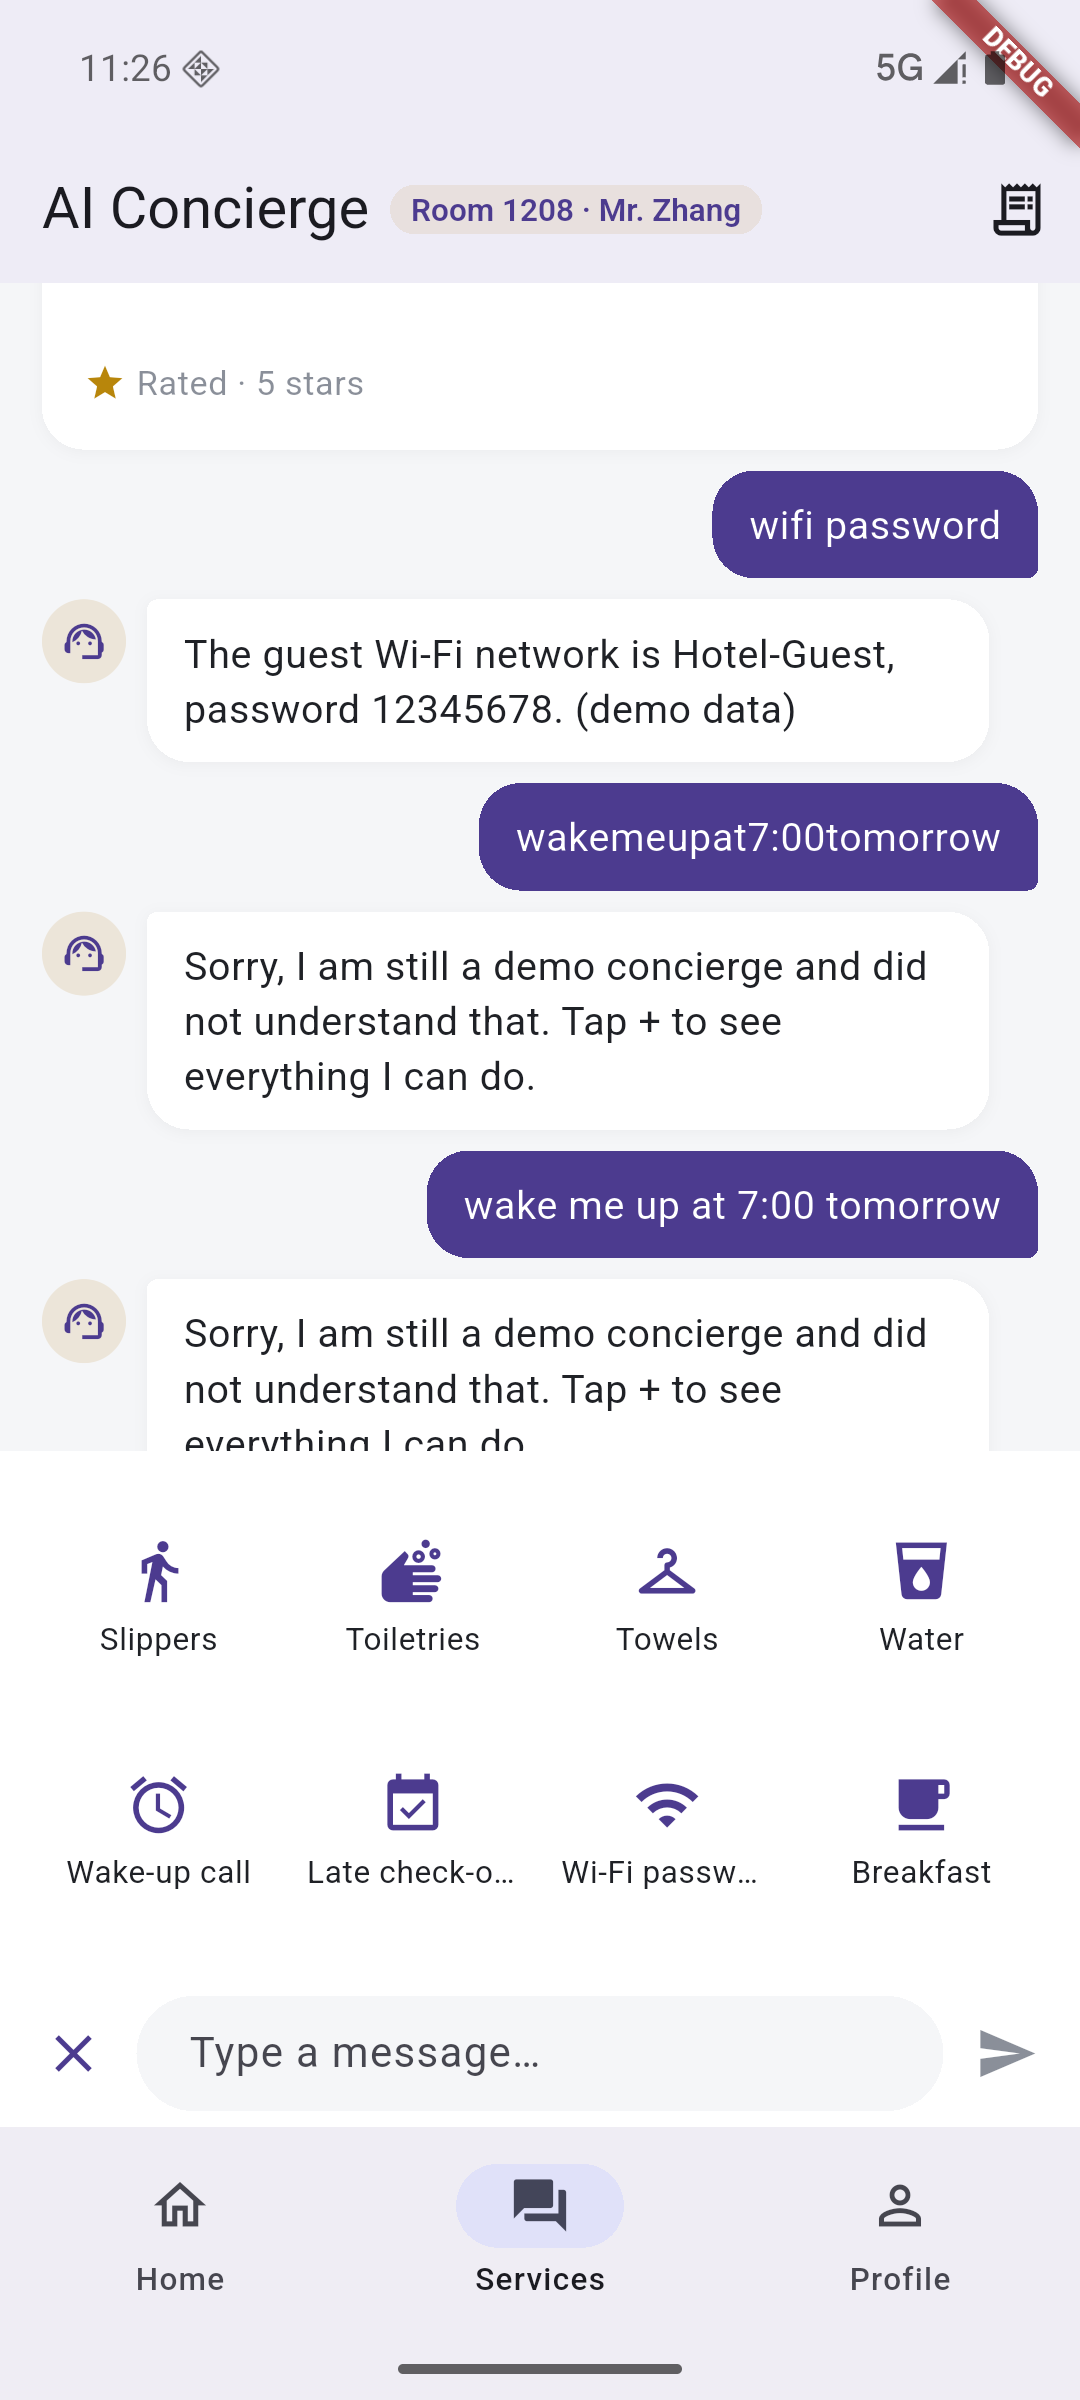
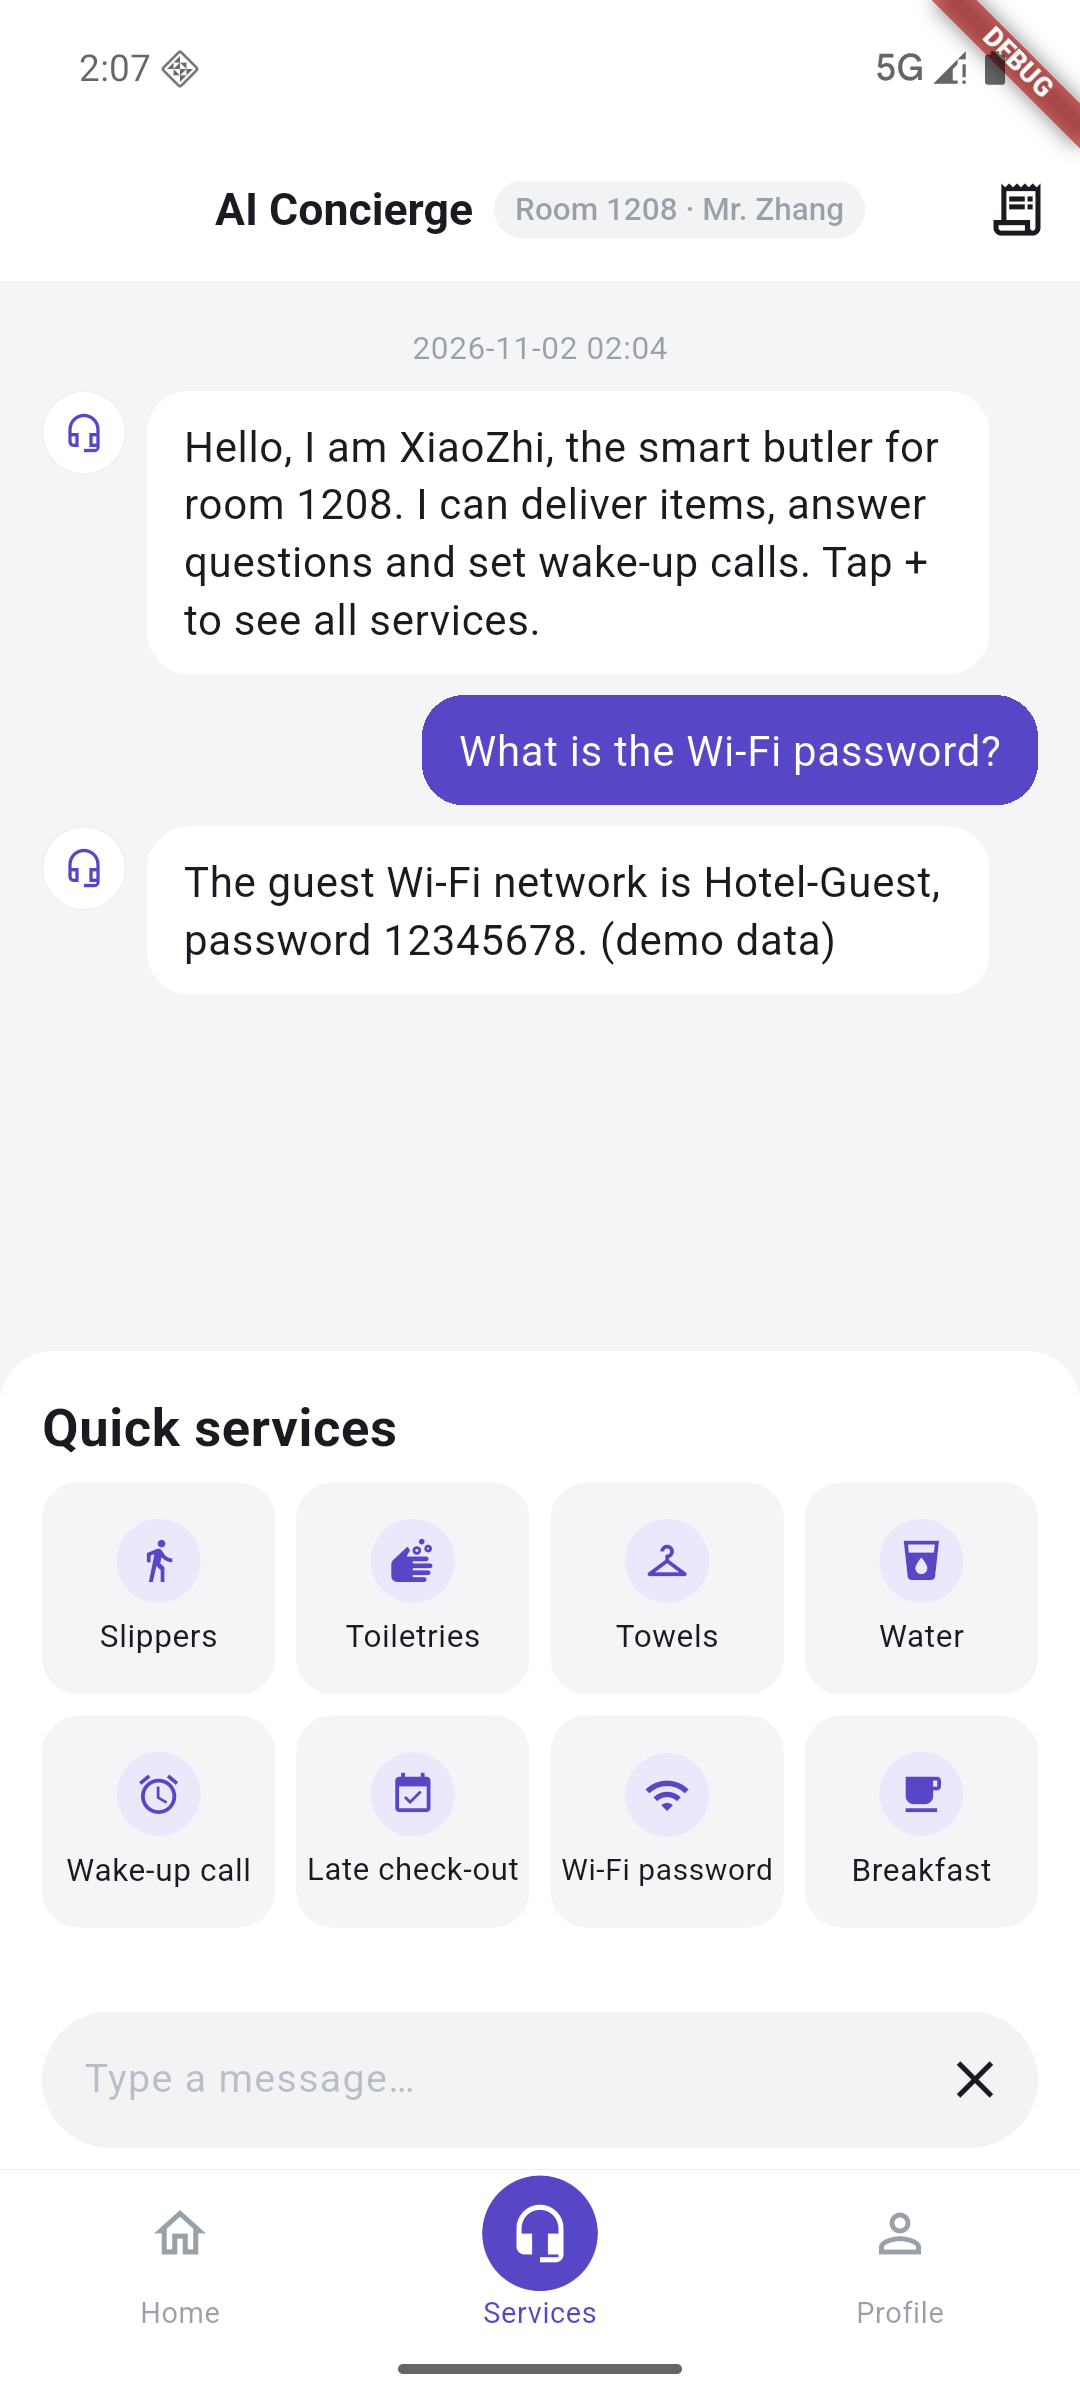
docs: hotel demo restyle acceptance and evidence sync

diff --git a/docs/evidence/hotel-demo.md b/docs/evidence/hotel-demo.md
@@ -44,3 +44,52 @@
 4. **release 构建/签名**：本轮仅 debug 构建；沿袭 v0 已知限制（debug 签名不可发布）。
 5. **英文自然语言触发**："wake me up at 7:00 tomorrow" 初测落到 fallback，已补 `wake me up` 关键词（并入集成提交）；中文触发词表以 PRD 为准，中文语音输入未在模拟器实测（adb 无法注入中文 IME 文本，中文匹配由单测覆盖）。
 6. **性能帧率**：未做逐帧 instrumentation；打字机为逐字符 setState，实测走查无可感知卡顿（列表已用 builder + 局部重建）。
+
+## 5. restyle 验收（2026-11-02，docs/06 视觉重设计）
+
+### 5.1 改动摘要
+
+- **双轨实施**：壳与占位轨 `571c702`（`feat: hotel demo restyle shell track (nav bar, placeholder mocks)`：自绘导航 `AppBottomNavBar`、P3 首页/我的装饰 mock、app_ui 主题修正、本区 analyzer 清零、导航 widget 测试 6 例）+ 聊天轨 `3cc3e15`（`feat: hotel demo restyle chat track`：聊天页/气泡/订单卡/弹层/快捷面板/猜您想问欢迎卡）；合并 `b719a5f` 零冲突。
+- **合并修复** `be048ee`：profile 页去掉跨 feature import hotel provider（R4，改为纯装饰、新增 `profileMemberHint` key）、删除壳轨加的 `HotelColors.star` 别名（聊天轨改用 `starGold`）、修 `_ProfileHeader` unused key lint。
+- **文档**：`docs/05` §9 token 表替换为 docs/06 §2.1（D9 决策不变）；`docs/06` 状态行改「已确认并实施」、§4 三档标完成。
+
+### 5.2 Gates
+
+| 命令 | 结果 |
+| --- | --- |
+| `bash tool/gen.sh` | PASS；生成物零 diff |
+| `bash tool/check.sh` | PASS（exit 0：format 零 diff、check_imports OK、四包 analyze 零 issue） |
+| `bash tool/test.sh` | PASS：**82 = shell_app 69 + app_core 9 + native_bridge 4**（重设计前基线 70 → 净增 12：导航 widget 测试 6 例 + 欢迎卡点击发送 + mock 页/弹层 finder 适配等） |
+| `fvm flutter build apk --debug` | PASS：`build/app/outputs/flutter-apk/app-debug.apk`（14.1s） |
+| `adb shell am start -W` 冷启动 | COLD TotalTime 12729ms（模拟器 debug 首启实测，含首次 JIT；仅基线，不代表真机） |
+
+### 5.3 走查逐项结果（emulator-5554，PRD §12 八项 + 重设计专项）
+
+| # | 走查项 | 结果 | 证据/说明 |
+| --- | --- | --- | --- |
+| 1 | 冷启动默认落「服务」tab；聊天页换肤（白 AppBar 居中标题、灰房号胶囊、黑色线性订单图标） | PASS | `hotel-01-welcome.png` |
+| 2 | **猜您想问欢迎卡**：首进可见、chips 分类切换（Delivery/Q&A/Booking）、「换一换」轮换 FAQ、FAQ 行点击发送预设并进意图流、首条消息后消失（不持久化） | PASS | `hotel-17-guess-card.png`（轮换后 Q&A 分类：WiFi/早餐/联网/早餐位置）；点 "What is the Wi-Fi password?" 即发送并触发 S3；S1 截图中卡片已消失 |
+| 3 | S1 主路径：追问量 → 数量收敛 → 订单卡（步进器 2→3→2 可调）→ 确认 → Placed（~3s）→ Delivering → Delivered → 星评一次成型 | PASS | `hotel-04-s1-ask-quantity.png`（快捷面板 Slippers 预设触发 → 追问数量）；`hotel-05-s1-order-card.png`；`hotel-06-s1-placed.png`（Bottled water 单 Placed 紫胶囊 + Staff notified；Placed 仅 ~3s，拖鞋单截图往返延迟未追上，改用更快的第二单捕获，状态机三单验证一致）；`hotel-07-s1-delivering.png`；`hotel-08-s1-delivered.png`（金色星评行 + Semantics "Service rating..."）；`hotel-09-s1-rated.png`（Rated · 3 stars 双处呈现，星级行移除不可再评） |
+| 4 | 快捷面板：白卡 + 「Quick services」标题 + 8 张 tileGray 小卡（primarySoft 圆底图标）；`Late check-out` / `Wi-Fi password` 经 FittedBox 不再截断 | PASS | `hotel-13-s2-quick-panel.png`；小卡点击发送预设进意图流（Slippers/Toiletries/Water/Wake-up 实测） |
+| 5 | S3 WiFi 直答（SSID/密码 demo 数据） | PASS | `hotel-10-s3-wifi.png` |
+| 6 | S4 叫醒预约：预设 → 追问时间 → 文本 "tomorrow 07:00" 解析 → 摘要卡 → Reserved 终态 | PASS | `hotel-11-s4-card.png`（追问）；`hotel-11-s4-reserved.png`（Reserved 紫胶囊 + "Tomorrow 07:00 wake-up call · room 1208"） |
+| 7 | S5 兜底 | PASS | 文本输入 "asdfgh qwerty" → "Sorry, I am still a demo concierge..."（UI describe 文本证据；无独立编号截图） |
+| 8 | 订单弹层：把手、「Current orders · 4」粗标题、行式列表（图标块+粗标题×数量+灰副题+状态胶囊+时间）、liveItems 实时同步 | PASS | `hotel-12-order-sheet.png`（4 单倒序：Delivered 绿 / Reserved 紫 / Rated·3 stars 灰胶囊） |
+| 9 | 首页 mock：紫渐变头卡 + 假搜索卡 + 图标格 + bridge demo 入口可达；点击任意处 toast | PASS | `hotel-02-home-toast.png`（SnackBar "This feature is not available yet."） |
+| 10 | 我的 mock：通用图标头像（无照片/吉祥物素材）+ Shell Plus 渐变横幅 + 图标格；点击 toast；纯装饰无房号（R4 修复后） | PASS | `hotel-03-profile-toast.png` |
+| 11 | 杀进程重启恢复：会话/订单完整还原、welcome 不重播、欢迎卡不重现 | PASS | `hotel-15-restore.png`（force-stop 后重启，Toiletries/Water Delivered 卡均在） |
+| 12 | 自绘底部导航：白底 + 0.5 hairline；未选中线性灰图标+灰字；选中紫实心+紫字；服务 tab（居中）选中 44dp 紫圆白图标；Semantics（3 nav Button + button/selected 标志） | PASS | `hotel-18-nav-circle.png`（紫圆选中态特写，兼见各截图底部）；UI 树确认 `Home/Home`、`Services/Services`、`Profile/Profile` Button 节点；widget 测试覆盖 3 项渲染/点击回调/圆钮/Semantics |
+| 13 | zh-CN 全界面中文（per-app locale） | PASS | `hotel-16-zh-locale.png`（AI 客服/1208 房·张先生/洗漱用品/已送达/数量×2/输入消息…/首页·服务·我的） |
+
+### 5.4 新增/重拍截图清单
+
+`hotel-01-welcome`、`hotel-02-home-toast`、`hotel-03-profile-toast`、`hotel-04-s1-ask-quantity`、`hotel-05-s1-order-card`、`hotel-06-s1-placed`、`hotel-07-s1-delivering`、`hotel-08-s1-delivered`、`hotel-09-s1-rated`、`hotel-10-s3-wifi`、`hotel-11-s4-card`、`hotel-11-s4-reserved`、`hotel-12-order-sheet`、`hotel-13-s2-quick-panel`、`hotel-14-s2-toiletries-card`、`hotel-15-restore`、`hotel-16-zh-locale`（全部按重设计后 UI 重拍替换）；新增 `hotel-17-guess-card`（欢迎卡特写）、`hotel-18-nav-circle`（导航紫圆选中态）。
+
+### 5.5 遗留未验证项
+
+1. **release 构建**：仅 debug 构建；沿袭已知限制（debug 签名不可发布）。
+2. **性能帧率/逐帧 instrumentation**：未做；走查无可感知卡顿。
+3. **中文 IME 自然语言输入**：adb `input text` 不支持非 ASCII，S1 中文触发路径由单测覆盖（走查用英文预设触发等价意图）。
+4. **Placed 状态独立帧**：状态仅保持约 3s，MCP 截图工具往返延迟追不上，改用单条 adb `input tap + screencap`（~1s）以 Water 订单捕获；拖鞋单的 Placed→Delivering 流转由时间线文本证据确认。
+5. **真机**：全部走查在模拟器（AVD shell_api36），数字与观感不代表真机。
+6. **iOS**：未编译未运行（沿袭 v0 已知限制）。

diff --git a/docs/05-hotel-agent-demo-prd.md b/docs/05-hotel-agent-demo-prd.md
@@ -201,17 +201,30 @@ GuestProfile  { roomNo: "1208", guestName }   // mock 常量，不持久化
 
 ## 9. 视觉规范（D9：华住会风格，紫金 + 灰白）
 
-> 以下色值为实施起点，允许微调，但需在 `app_ui` 以 token 形式扩展（如 `HotelColors`），不允许在页面内散落硬编码色值。
+> 视觉令牌已按 docs/06 重设计更新（2026-11-02），D9 决策不变。以下为现行生效的令牌表（来源 `docs/06-hotel-ui-restyle-plan.md` §2.1，实现于 `packages/app_ui` `HotelColors` / `HotelDimens` / `HotelTypography`），不允许在页面内散落硬编码色值。
 
-| Token | 值（起点） | 用途 |
+| Token | 值 | 用途 |
 | --- | --- | --- |
-| 主色·紫 | `#4C3B8F` | 用户气泡、主按钮、选中态、底部导航选中 |
-| 点缀·金 | `#C9A25E` | 房号徽标、状态徽标、星星、分隔线点缀 |
-| 背景 | `#F5F6F8` | 聊天区背景（灰白） |
-| 表面 | `#FFFFFF` | 客服气泡、卡片、面板 |
-| 文本主/次 | `#1F2126` / `#8A8F99` | 标题/正文与辅助文案 |
+| `primary` | `#5747C6` | 主色：用户气泡、CTA、选中态、导航选中 |
+| `primaryDeep` | `#4638AC` | CTA 渐变深端、按压态 |
+| `primarySoft` | `#ECE8FB` | 选中 chip 底、图标软底 |
+| `bg` | `#F4F5F7` | 页面/聊天区背景（冷灰，无紫染） |
+| `surface` | `#FFFFFF` | 卡片、气泡、面板、弹层 |
+| `textPrimary` | `#191B20` | 标题/正文 |
+| `textSecondary` | `#9AA0A8` | 辅助文案、时间戳、未选中导航 |
+| `textHint` | `#B9BDC6` | 输入占位 |
+| `divider` | `#EEEEF1` | 0.5px 分割线、AppBar 底 hairline |
+| `statusPlaced` | `#5747C6` | 已下单/已预约 |
+| `statusDelivering` | `#F5A623` | 配送中 |
+| `statusDelivered` | `#34B36B` | 已送达 |
+| `statusNeutral` | `#8E939C` | 待确认/已评价 |
+| `promoRed` | `#FF5148` | 徽标点缀（新、评价红点） |
+| `starGold` | `#F0A835` | 星级填充 |
+| `inputPill` | `#F2F3F5` | 输入胶囊底 |
+| `tileGray` | `#F4F5F7` | 图标块、面板 tile 底 |
 
-- 卡片圆角 16、气泡圆角 16（发送侧右下角 4）；状态徽标圆角胶囊。
+- 状态胶囊统一「10% 色底 + 实色文字」，`hotelOrderSheetStatusColor` 为唯一色源。
+- 字体层级用系统字重表达（`titleL` 20/w700、`title` 17/w700、`body` 16/w400、`sub` 13/w400、`navLabel` 11）；卡片圆角 16、面板顶角 20、CTA/胶囊全圆、图标块 10、气泡 16（无尾巴）；全局 `elevation=0`，分割线 0.5px `divider`。
 - 动效：卡片状态切换 200ms fade+size、面板展开 200ms、新消息插入隐式动画；星星点击有缩放反馈。
 - 可访问性：全部可点区域 ≥48dp；气泡文本与背景对比度达标；图标带 `Semantics`/tooltip；底部导航与 AppBar 文案进 ARB。
 

diff --git a/docs/06-hotel-ui-restyle-plan.md b/docs/06-hotel-ui-restyle-plan.md
@@ -1,6 +1,6 @@
 # 06 · 酒店 Demo 视觉重设计方案（对齐华住 App 设计语言）
 
-> 状态：**待确认**（2026-11-02）
+> 状态：**已确认并实施（2026-11-02）**
 > 背景：v0 走查截图暴露出明显 Material 3 模板感（默认 NavigationBar、stock ListTile 弹层、fromSeed 紫灰底色）。产品提供华住会 App 5 张参考截图，要求按该风格重做视觉。
 > 参考图：`docs/evidence/images/reference-huazhu/`（chat / home / profile / member / services）。**仅提取设计语言（配色/布局/组件形态），不使用其 logo、吉祥物、文案、图片素材。**
 > 范围：仅 presentation 与主题层；意图引擎、状态机、持久化、provider API 一律不动。组件对外签名（`ReplyTypewriter` / `showHotelOrderSheet` / `StarRatingBar`）保持不变。
@@ -79,11 +79,13 @@
 
 ## 4. 实施阶段
 
-| 阶段 | 内容 | 文件面 |
-| --- | --- | --- |
-| P1 换肤（必做） | 主题/令牌（§2）、自绘导航（§3.1）、聊天页（§3.2 除欢迎卡）、面板小卡化+截断修复、订单卡与弹层（§3.3） | `app_ui` 3 个 token/theme 文件、`app.dart`、`core/shell/*`、hotel presentation ~8 文件、ARB |
-| P2 欢迎卡（建议） | 猜您想问卡：预设问题数据 + widget + 点击发送接线 + 测试 | hotel data/presentation 新增 1–2 文件、chat page 接线、ARB、测试 |
-| P3 占位页 mock（可选） | 首页/我的风格化装饰 | 2 个 presentation 文件、ARB |
+> 三档均已完成（2026-11-02）：P1 由壳轨 `571c702` + 聊天轨 `3cc3e15` 两轨并行实施（合并 `b719a5f`），P2/P3 随对应轨落地；验收见 `docs/evidence/hotel-demo.md` restyle 章节。
+
+| 阶段 | 内容 | 文件面 | 状态 |
+| --- | --- | --- | --- |
+| P1 换肤（必做） | 主题/令牌（§2）、自绘导航（§3.1）、聊天页（§3.2 除欢迎卡）、面板小卡化+截断修复、订单卡与弹层（§3.3） | `app_ui` 3 个 token/theme 文件、`app.dart`、`core/shell/*`、hotel presentation ~8 文件、ARB | ✅ 完成 |
+| P2 欢迎卡（建议） | 猜您想问卡：预设问题数据 + widget + 点击发送接线 + 测试 | hotel data/presentation 新增 1–2 文件、chat page 接线、ARB、测试 | ✅ 完成 |
+| P3 占位页 mock（可选） | 首页/我的风格化装饰 | 2 个 presentation 文件、ARB | ✅ 完成 |
 
 ## 5. 测试与文档影响
 
